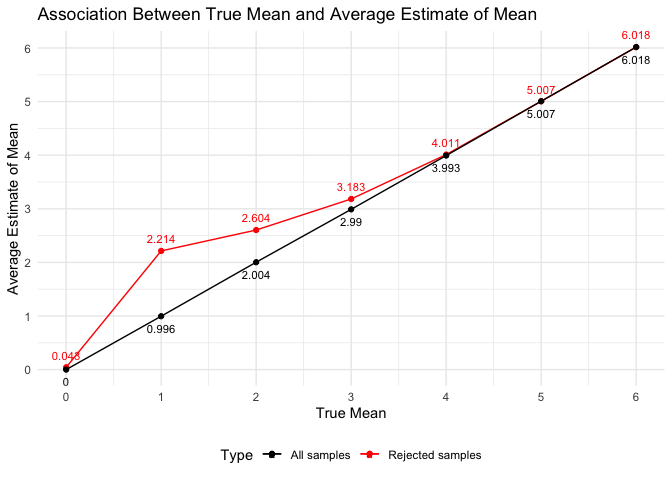
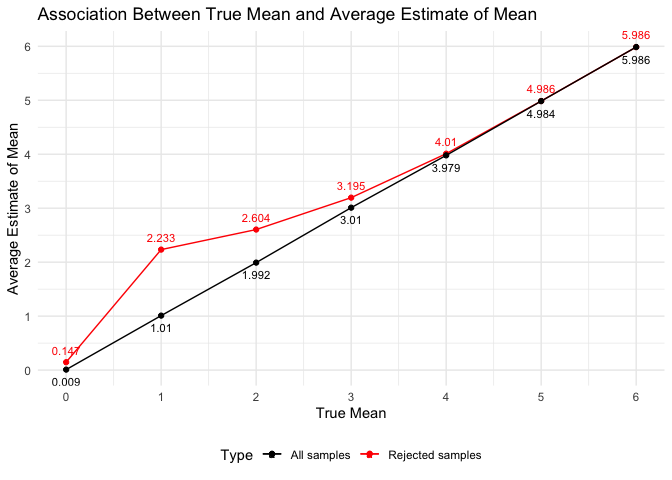
review .rmd and .md

diff --git a/p8105_hw5_yx2638.md b/p8105_hw5_yx2638.md
@@ -70,15 +70,21 @@ homicide = read_csv(url(data_url))
 The raw dataset collects data on homicides in 50 large U.S. cities. It
 has 52179 observations of homicides and 12 key variables represent uid,
 reported date, victims’ last name, first name, race, age, sex, city,
-state, latitude, longitude, and disposition.
+state, latitude, longitude, and disposition. The reported date,
+longitude and latitude are numeric variables while others are character,
+some of which need to be further tidied in the next step. In addition,
+60 missing values exist in variable `lat` and 60 in `lon`.
 
 Next, we create a `city_state` variable and a `resolved` variable to
 indicate whether the homicides were solved. There was one observation
 was mis-recorded as “Tulsa, AL” and we plan to drop it since Tulsa is
-the city in the state of Oklahoma rather than Alabama.
+the city in the state of Oklahoma rather than Alabama. The
+`reported_date` is transformed to a proper format.
 
 ``` r
 homicide_tidy = homicide %>%
+  janitor::clean_names() %>%
+  mutate(reported_date = as.Date(as.character(reported_date), format = "%Y%m%d")) %>% 
   mutate(city_state = str_c(city, state, sep = ", "),
          resolved= case_when(disposition == "Closed by arrest" ~ "solved",
                                 disposition == "Closed without arrest" ~ "unsolved",
@@ -88,7 +94,7 @@ homicide_tidy = homicide %>%
 ```
 
 Then summarize within cities to obtain the total number of homicides and
-the number of unsolved homicides.
+the number of unsolved homicides. A table is made to show the number.
 
 ``` r
 city_summary = homicide_tidy %>%
@@ -96,23 +102,65 @@ city_summary = homicide_tidy %>%
   summarise(num_homicides = n(),
             num_unsolved_homicides = sum(resolved == "unsolved")) 
 
-city_summary 
+city_summary %>% 
+  knitr::kable(caption = "Homicides Within Cities ",
+               col.names = c("City", "Total number of homicides", "Number of unsovled homicides"))
 ```
 
-    ## # A tibble: 50 × 3
-    ##    city_state      num_homicides num_unsolved_homicides
-    ##    <chr>                   <int>                  <int>
-    ##  1 Albuquerque, NM           378                    146
-    ##  2 Atlanta, GA               973                    373
-    ##  3 Baltimore, MD            2827                   1825
-    ##  4 Baton Rouge, LA           424                    196
-    ##  5 Birmingham, AL            800                    347
-    ##  6 Boston, MA                614                    310
-    ##  7 Buffalo, NY               521                    319
-    ##  8 Charlotte, NC             687                    206
-    ##  9 Chicago, IL              5535                   4073
-    ## 10 Cincinnati, OH            694                    309
-    ## # … with 40 more rows
+| City               | Total number of homicides | Number of unsovled homicides |
+|:-------------------|--------------------------:|-----------------------------:|
+| Albuquerque, NM    |                       378 |                          146 |
+| Atlanta, GA        |                       973 |                          373 |
+| Baltimore, MD      |                      2827 |                         1825 |
+| Baton Rouge, LA    |                       424 |                          196 |
+| Birmingham, AL     |                       800 |                          347 |
+| Boston, MA         |                       614 |                          310 |
+| Buffalo, NY        |                       521 |                          319 |
+| Charlotte, NC      |                       687 |                          206 |
+| Chicago, IL        |                      5535 |                         4073 |
+| Cincinnati, OH     |                       694 |                          309 |
+| Columbus, OH       |                      1084 |                          575 |
+| Dallas, TX         |                      1567 |                          754 |
+| Denver, CO         |                       312 |                          169 |
+| Detroit, MI        |                      2519 |                         1482 |
+| Durham, NC         |                       276 |                          101 |
+| Fort Worth, TX     |                       549 |                          255 |
+| Fresno, CA         |                       487 |                          169 |
+| Houston, TX        |                      2942 |                         1493 |
+| Indianapolis, IN   |                      1322 |                          594 |
+| Jacksonville, FL   |                      1168 |                          597 |
+| Kansas City, MO    |                      1190 |                          486 |
+| Las Vegas, NV      |                      1381 |                          572 |
+| Long Beach, CA     |                       378 |                          156 |
+| Los Angeles, CA    |                      2257 |                         1106 |
+| Louisville, KY     |                       576 |                          261 |
+| Memphis, TN        |                      1514 |                          483 |
+| Miami, FL          |                       744 |                          450 |
+| Milwaukee, wI      |                      1115 |                          403 |
+| Minneapolis, MN    |                       366 |                          187 |
+| Nashville, TN      |                       767 |                          278 |
+| New Orleans, LA    |                      1434 |                          930 |
+| New York, NY       |                       627 |                          243 |
+| Oakland, CA        |                       947 |                          508 |
+| Oklahoma City, OK  |                       672 |                          326 |
+| Omaha, NE          |                       409 |                          169 |
+| Philadelphia, PA   |                      3037 |                         1360 |
+| Phoenix, AZ        |                       914 |                          504 |
+| Pittsburgh, PA     |                       631 |                          337 |
+| Richmond, VA       |                       429 |                          113 |
+| Sacramento, CA     |                       376 |                          139 |
+| San Antonio, TX    |                       833 |                          357 |
+| San Bernardino, CA |                       275 |                          170 |
+| San Diego, CA      |                       461 |                          175 |
+| San Francisco, CA  |                       663 |                          336 |
+| Savannah, GA       |                       246 |                          115 |
+| St. Louis, MO      |                      1677 |                          905 |
+| Stockton, CA       |                       444 |                          266 |
+| Tampa, FL          |                       208 |                           95 |
+| Tulsa, OK          |                       583 |                          193 |
+| Washington, DC     |                      1345 |                          589 |
+
+Homicides Within Cities
 
 Below is the estimation of the proportion of homicides that are unsolved
 in Baltimore, MD.
@@ -219,10 +267,10 @@ sim_t_test = function(n = 30, mu, sigma = 5){
 ```
 
 Then generate 5000 datasets from the model $X \sim Normal[\mu, \sigma]$
-and repeat t-test
+and repeat t-test.yy
 
 ``` r
-set.seed(1) 
+set.seed(123) 
 
 sim_results_df = 
   tibble(true_mean = c(0:6)) %>% 
@@ -265,9 +313,10 @@ From the line plot, we can observe that with the increase of the
 difference between true mean and 0 (effect size), the proportion of
 times the null is rejected presents a overall increase trend. It
 increases sharply at first, and then the increase trend slows down as
-the proportion closer to 1??. Generally speaking, there is a positive
-association between the effect size and power of the test, which means
-the larger the effect size, the greater the power.
+the effect size becomes larger and proportion closer to 1. Generally
+speaking, there is a positive association between the effect size and
+power of the test, which means the larger the effect size, the greater
+the power.
 
 Next is a plot showing the average estimate of $\mu$ on the $y$ axis and
 the true value of $\mu$ on the $x$ axis.
@@ -330,15 +379,17 @@ sim_results_df %>%
 
 ![](p8105_hw5_yx2638_files/figure-gfm/unnamed-chunk-14-1.png)<!-- -->
 
-From plot above, we can observe that the sample average of $\hat{\mu}$
-across tests for all samples is approximately equal to the true value of
-$\mu$. However, for the sample average of $\hat{\mu}$ across tests for
-which the null is rejected, it is approximately equal to the true value
-of $\mu$ when $\mu=4,5,6$ while it is different from the true value of
-$\mu$ when $\mu=1,2,3$.  
+From the plot above, we can observe that the sample average of
+$\hat{\mu}$ across tests for all samples is approximately equal to the
+true value of $\mu$. However, for the sample average of $\hat{\mu}$
+across tests for which the null is rejected, it is approximately equal
+to the true value of $\mu$ when $\mu=4,5,6$ while it is different from
+the true value of $\mu$ when $\mu=0,1,2,3$.  
 We reject the null hypothesis when the estimate of mean $\hat{\mu}$ is
 significantly different from 0. As the true mean gets larger, the effect
 size becomes larger accordingly, which leads to a higher probability of
-correctly rejecting the null hypothesis. Therefore, when $\mu=4,5,6$
-more samples are correctly rejected, approximately equivalent to the
-whole samples.
+correctly rejecting the null hypothesis. Therefore, when $\mu=4,5,6$,
+more samples are correctly rejected (greater power), approximately
+equivalent to the whole samples, and as a result, the average of
+$\hat{\mu}$ for rejected samples is approximately equal to the true
+value of $\mu$.
